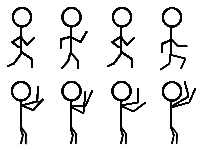
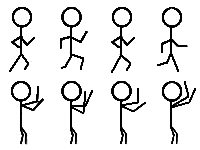
11/21(월)
enemy02_alive 구현
전체적인 enemy들 이미지 조정(모션)

diff --git a/DefendCastle/enemy.py b/DefendCastle/enemy.py
@@ -100,6 +100,6 @@ class Enemy02(Enemy):
         elif(self.state == 4 and self.die_frame < 6 * 12):
             self.die_image.clip_draw(math.floor(self.die_frame / 12) * 70, 0 ,70, 100, self.x, self.y)
         elif(self.state == 5):
-            self.alive_image.clip_draw(math.floor(self.alive_frame / 10) * 75, 0, 75, 60, self.x, self.y)
+            self.alive_image.clip_draw(math.floor(self.alive_frame / 10) * 70, 0, 70, 60, self.x, self.y)
         #print(self.state, self.frame, self.frame % 4, self.frame % 5, self.x, self.y)
     pass

diff --git a/DefendCastle/main_state.py b/DefendCastle/main_state.py
@@ -57,7 +57,7 @@ def handle_events():
             mx = event.x
             my = 599 - event.y
             TargetEnemyIndex = -1
-            for i in range(EnemyCount):
+            for i in range(EnemyCount * 2):
                 if(EnemyTeam[i].state == 0 or EnemyTeam[i].state == 1):
                    if(EnemyTeam[i].x - EnemyTeam[i].width / 2 <= mx and mx <= EnemyTeam[i].x + EnemyTeam[i].width / 2
                    and EnemyTeam[i].y - EnemyTeam[i].height / 2 <= my and my <= EnemyTeam[i].y + EnemyTeam[i].height / 2):
